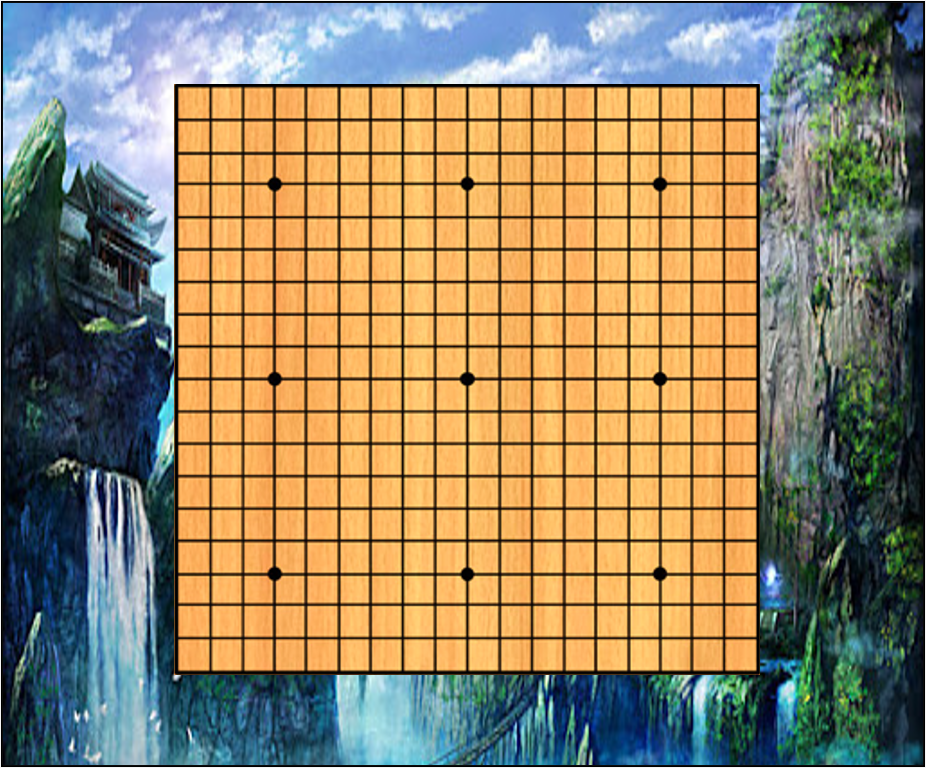
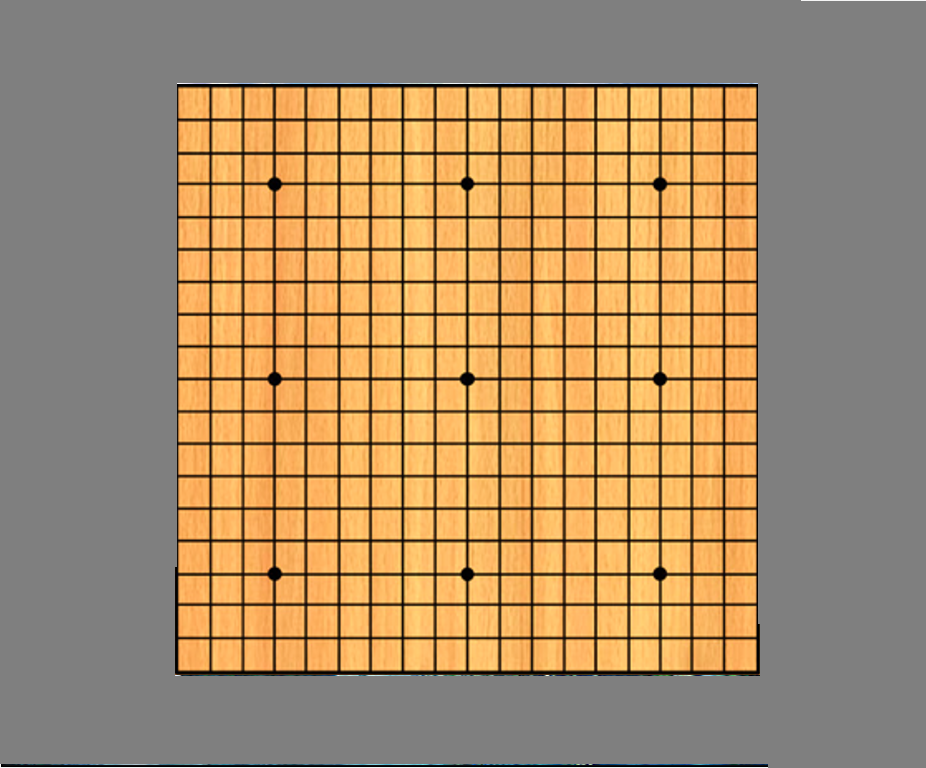
undo redo

diff --git a/connect6/Form1.Designer.cs b/connect6/Form1.Designer.cs
@@ -32,7 +32,6 @@ namespace connect6
             this.components = new System.ComponentModel.Container();
             System.ComponentModel.ComponentResourceManager resources = new System.ComponentModel.ComponentResourceManager(typeof(FrmGame));
             this.CountingDown = new System.Windows.Forms.Timer(this.components);
-            this.pictureBox1 = new System.Windows.Forms.PictureBox();
             this.TotalTime = new System.Windows.Forms.Label();
             this.Animation = new System.Windows.Forms.Timer(this.components);
             this.RestartGame = new System.Windows.Forms.Button();
@@ -40,23 +39,13 @@ namespace connect6
             this.ReviewPiece = new System.Windows.Forms.Timer(this.components);
             this.buttonUndo = new Guna.UI2.WinForms.Guna2CircleButton();
             this.buttonRedo = new Guna.UI2.WinForms.Guna2CircleButton();
+            this.pictureBox1 = new System.Windows.Forms.PictureBox();
             ((System.ComponentModel.ISupportInitialize)(this.pictureBox1)).BeginInit();
             this.SuspendLayout();
             // 
             // CountingDown
             // 
             this.CountingDown.Interval = 1000;
-            // 
-            // pictureBox1
-            // 
-            this.pictureBox1.BackColor = System.Drawing.Color.Transparent;
-            this.pictureBox1.BackgroundImage = ((System.Drawing.Image)(resources.GetObject("pictureBox1.BackgroundImage")));
-            this.pictureBox1.BackgroundImageLayout = System.Windows.Forms.ImageLayout.Stretch;
-            this.pictureBox1.Location = new System.Drawing.Point(200, 62);
-            this.pictureBox1.Name = "pictureBox1";
-            this.pictureBox1.Size = new System.Drawing.Size(688, 26);
-            this.pictureBox1.TabIndex = 0;
-            this.pictureBox1.TabStop = false;
             // 
             // TotalTime
             // 
@@ -109,6 +98,7 @@ namespace connect6
             // 
             // buttonUndo
             // 
+            this.buttonUndo.BackColor = System.Drawing.Color.DimGray;
             this.buttonUndo.BackgroundImage = global::connect6.Properties.Resources.BeautifulScene;
             this.buttonUndo.DisabledState.BorderColor = System.Drawing.Color.DarkGray;
             this.buttonUndo.DisabledState.CustomBorderColor = System.Drawing.Color.DarkGray;
@@ -143,11 +133,22 @@ namespace connect6
             this.buttonRedo.Text = "Redo";
             this.buttonRedo.Click += new System.EventHandler(this.guna2CircleButton2_Click);
             // 
+            // pictureBox1
+            // 
+            this.pictureBox1.BackColor = System.Drawing.Color.Transparent;
+            this.pictureBox1.BackgroundImage = ((System.Drawing.Image)(resources.GetObject("pictureBox1.BackgroundImage")));
+            this.pictureBox1.BackgroundImageLayout = System.Windows.Forms.ImageLayout.Stretch;
+            this.pictureBox1.Location = new System.Drawing.Point(200, 62);
+            this.pictureBox1.Name = "pictureBox1";
+            this.pictureBox1.Size = new System.Drawing.Size(688, 26);
+            this.pictureBox1.TabIndex = 0;
+            this.pictureBox1.TabStop = false;
+            // 
             // FrmGame
             // 
             this.AutoScaleMode = System.Windows.Forms.AutoScaleMode.None;
             this.AutoSizeMode = System.Windows.Forms.AutoSizeMode.GrowAndShrink;
-            this.BackColor = System.Drawing.SystemColors.ActiveBorder;
+            this.BackColor = System.Drawing.SystemColors.ControlDarkDark;
             this.BackgroundImage = global::connect6.Properties.Resources.NewBoard;
             this.BackgroundImageLayout = System.Windows.Forms.ImageLayout.Stretch;
             this.ClientSize = new System.Drawing.Size(1078, 749);
@@ -175,7 +176,6 @@ namespace connect6
         #endregion
 
         private System.Windows.Forms.Timer CountingDown;
-        private System.Windows.Forms.PictureBox pictureBox1;
         private System.Windows.Forms.Label TotalTime;
         private System.Windows.Forms.Timer Animation;
         private System.Windows.Forms.Button RestartGame;
@@ -183,6 +183,7 @@ namespace connect6
         private System.Windows.Forms.Timer ReviewPiece;
         private Guna.UI2.WinForms.Guna2CircleButton buttonUndo;
         private Guna.UI2.WinForms.Guna2CircleButton buttonRedo;
+        private System.Windows.Forms.PictureBox pictureBox1;
     }
 }
 

diff --git a/connect6/Form1.cs b/connect6/Form1.cs
@@ -370,6 +370,7 @@ namespace connect6
                 this.Controls.Add(redoPiece);
                 game.ChangeWhoRule();
                 PieceIndex++;
+                StoringForReviewGame.Add(redoPiece);
                 RedoMoves.RemoveAt(RedoMoves.Count - 1);
 
             }
